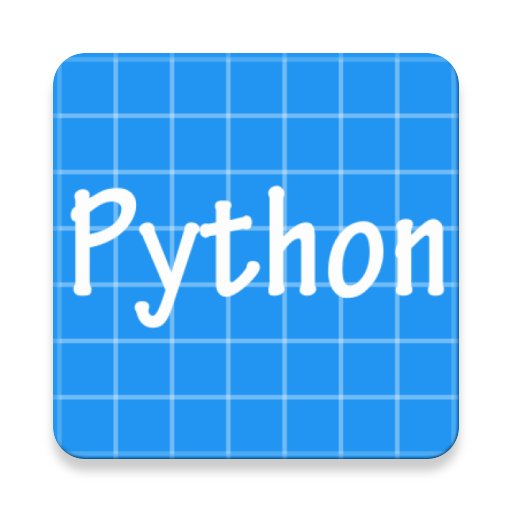
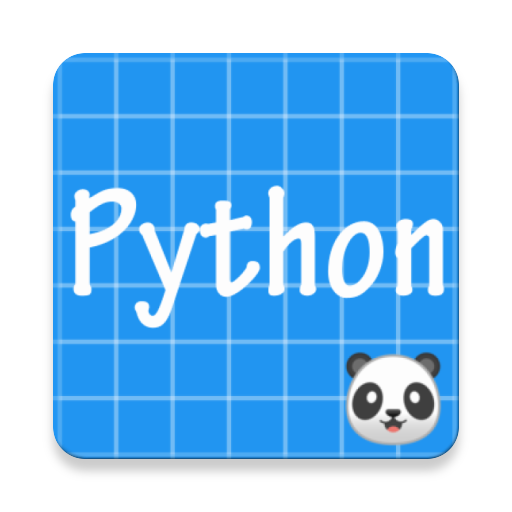
1. 修改logo

diff --git a/app/src/main/java/com/panda_doc/python/version/CheckVersionDialogFragment.java b/app/src/main/java/com/panda_doc/python/version/CheckVersionDialogFragment.java
@@ -174,7 +174,7 @@ public class CheckVersionDialogFragment extends DialogFragment {
      */
     private void installApk(File file) {
         Intent intent = new Intent(Intent.ACTION_VIEW);
-        /** TODO 暂时注掉7.0的 启动应用的方法， 华为7.0测试正常，回头测试一下 oppo, vivo*/
+        // TODO 暂时注掉7.0的 启动应用的方法， 华为7.0测试正常，回头测试一下 oppo, vivo
 //        if (Build.VERSION.SDK_INT >= Build.VERSION_CODES.N) {
 //            intent.setFlags(Intent.FLAG_GRANT_READ_URI_PERMISSION);
 //            String authority = "com.dashidan.fileprovider";
